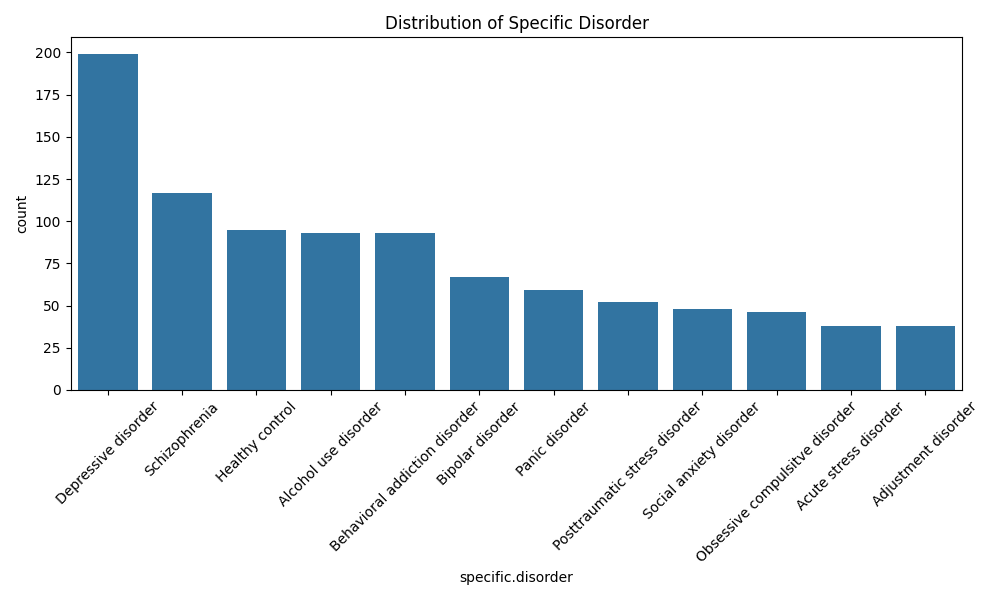
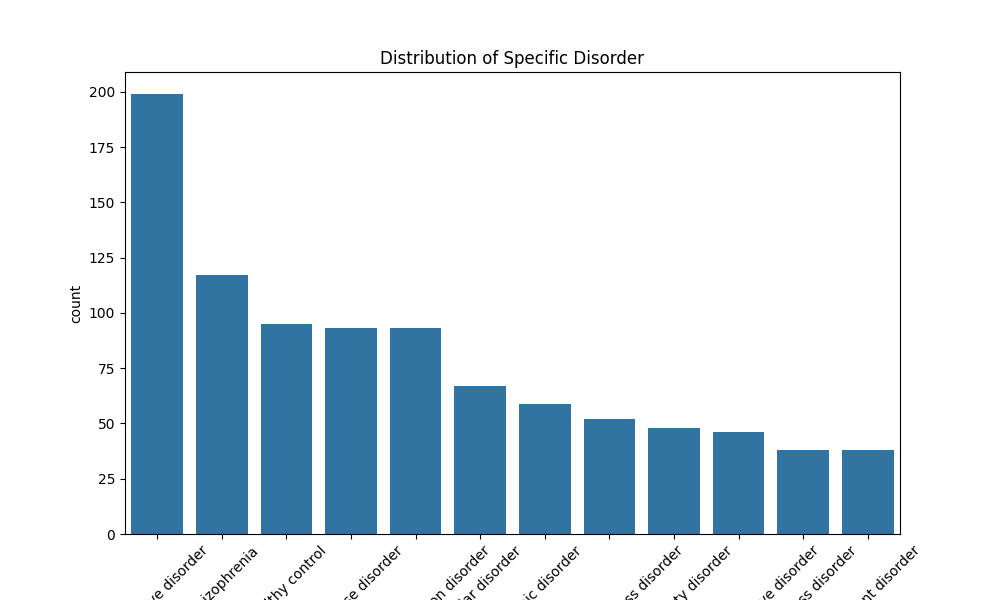
Diagnosis per age visual ready.

diff --git a/data.py b/data.py
@@ -33,13 +33,14 @@ class PsychiatricDataAnalytics:
         print(self.patients_df.head(5))
         
 
-    # Show remaining columns
+        # Show remaining columns
 
         print("Remaining columns :", self.patients_df.columns.tolist())
 
     
     def analyze_diagnosis_distribution(self):
         """Analyze distribution of specific disorder"""
+        # Visually representing the disorder distribution:
         diagnosis_counts = self.patients_df["specific.disorder"].value_counts().reset_index()
         diagnosis_counts.columns = ["specific.disorder", "count"]
 
@@ -48,98 +49,40 @@ class PsychiatricDataAnalytics:
         sns.barplot(x="specific.disorder", y="count", data=diagnosis_counts)
         plt.title("Distribution of Specific Disorder")
         plt.xticks(rotation=45)
-        plt.tight_layout()
         plt.savefig("diagnosis_distribution.png")
+        plt.tight_layout()
         plt.show()
 
         return diagnosis_counts
     
-    # def analyze_treatment_effectiveness(self, sessions_df, assessments_df):
-    #     """
-    #     Analyze treatment effectiveness by comparing assessment scores
-    #     before and after specific treatment approaches
-    #     """
-    #     # Join sessions with assessments
-    #     treatment_results = sessions_df.join(
-    #         assessments_df,
-    #         (sessions_df.patient_id == assessments_df.patient_id) &
-    #         (sessions_df.session_date <= assessments_df.assessment_date),
-    #         "inner"
-    #     )
-        
-    #     # Group by treatment approach and calculate average assessment scores
-    #     effectiveness_by_treatment = treatment_results.groupBy("treatment_approach") \
-    #         .agg(
-    #             avg("score").alias("avg_score"),
-    #             count("assessment_id").alias("assessment_count")
-    #         ) \
-    #         .orderBy(col("avg_score").desc())
-            
-    #     return effectiveness_by_treatment
+    def analyze_diagnosis_per_age(self):
+        """Analyze distribution of specific disorder"""
+        # Visually representing the disorder distribution:
+        diagnosis_age = self.patients_df.groupby("specific.disorder")["age"].mean().reset_index()
+        diagnosis_age.columns = ["specific.disorder", "avg_age"]
 
-    # def identify_medication_patterns(self, medication_df):
-    #     """
-    #     Identify patterns in medication prescriptions and their associations
-    #     with specific diagnoses
-    #     """
-    #     # Join medication data with patient data
-    #     med_patient_df = medication_df.join(
-    #         self.patients_df,
-    #         "patient_id",
-    #         "inner"
-    #     )
-        
-    #     # Analyze medication frequency by diagnosis
-    #     med_by_diagnosis = med_patient_df.groupBy("diagnosis_primary", "medication_name") \
-    #         .count() \
-    #         .orderBy(col("diagnosis_primary"), col("count").desc())
-            
-    #     # Calculate medication duration
-    #     med_duration_df = medication_df.withColumn(
-    #         "duration_days",
-    #         when(col("end_date").isNotNull(), 
-    #              datediff(col("end_date"), col("prescribed_date"))
-    #         ).otherwise(
-    #             datediff(current_date(), col("prescribed_date"))
-    #         )
-    #     )
-        
-    #     return med_by_diagnosis, med_duration_df
+        # Visualization
+        plt.figure(figsize=(10, 6))
+        sns.barplot(x="specific.disorder", y="avg_age", data=diagnosis_age)
+        plt.title("Distribution of Specific Disorder per Age")
+        plt.xticks(rotation=45)
+        plt.savefig("diagnosis_per_age.png")
+        plt.tight_layout()
+        plt.show()
+
+        return diagnosis_age
     
-    # def generate_provider_insights_dashboard(self, sessions_df, assessments_df):
-    #     """
-    #     Generate insights dashboard for psychiatric providers
-    #     showing patient progress and treatment effectiveness
-    #     """
-    #     # Join data
-    #     provider_insights = sessions_df.join(
-    #         assessments_df, 
-    #         (sessions_df.patient_id == assessments_df.patient_id),
-    #         "inner"
-    #     ).join(
-    #         self.patients_df,
-    #         "patient_id",
-    #         "inner"
-    #     )
-        
-    #     # Calculate metrics by provider
-    #     provider_metrics = provider_insights.groupBy("provider_id") \
-    #         .agg(
-    #             count("distinct patient_id").alias("patient_count"),
-    #             avg("score").alias("avg_assessment_score"),
-    #             count("session_id").alias("session_count")
-    #         )
-            
-    #     return provider_metrics
-    
+
     def run_complete_analysis(self):
         """Execute a complete analysis pipeline"""
         self.load_sample_data()
         
         diagnosis_dist = self.analyze_diagnosis_distribution()
+        diagnosis_per_age = self.analyze_diagnosis_per_age()
         
         return {
-            "diagnosis_distribution": diagnosis_dist
+            "diagnosis_distribution": diagnosis_dist,
+            "diagnosis per age": diagnosis_per_age
         }
 
 if __name__ == "__main__":
